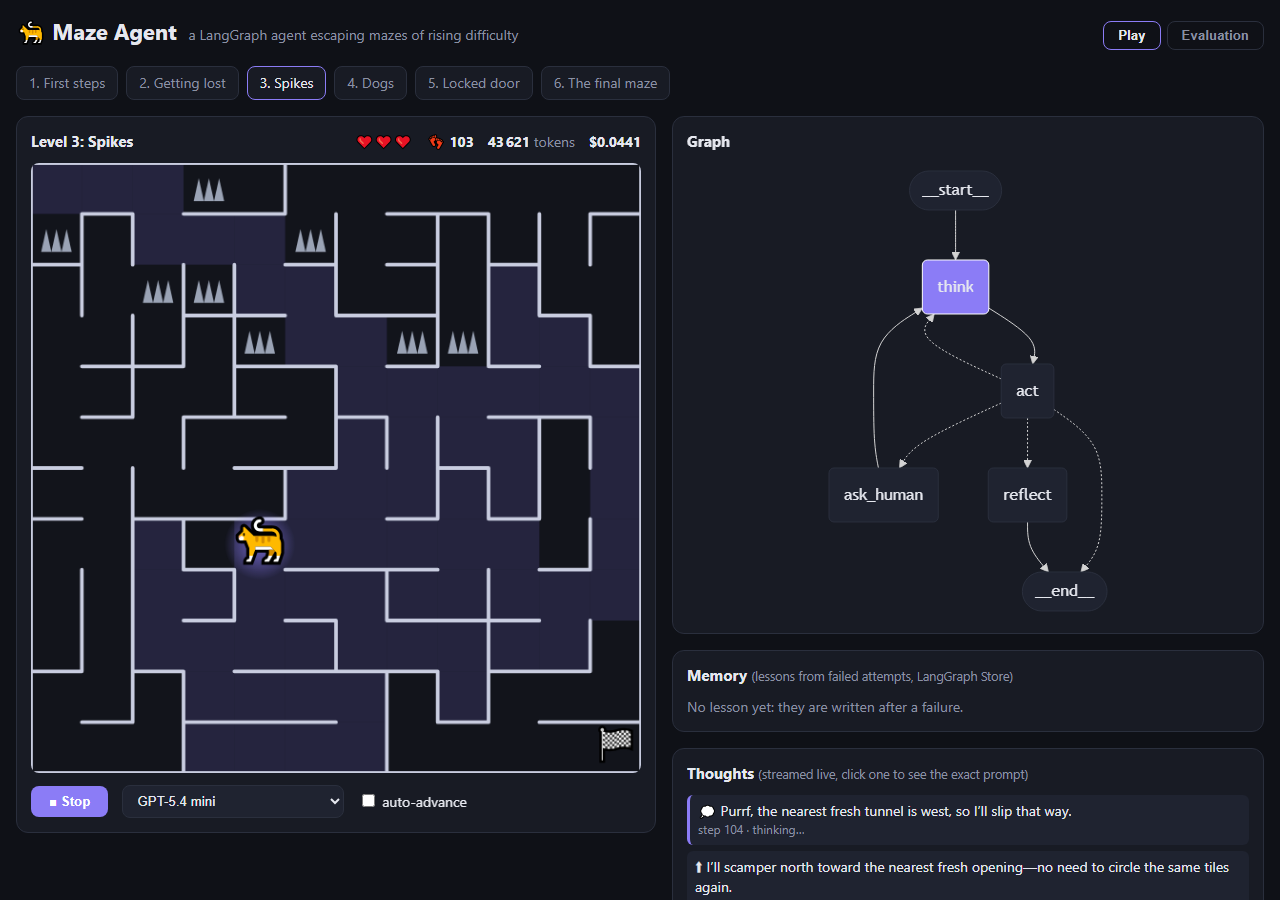
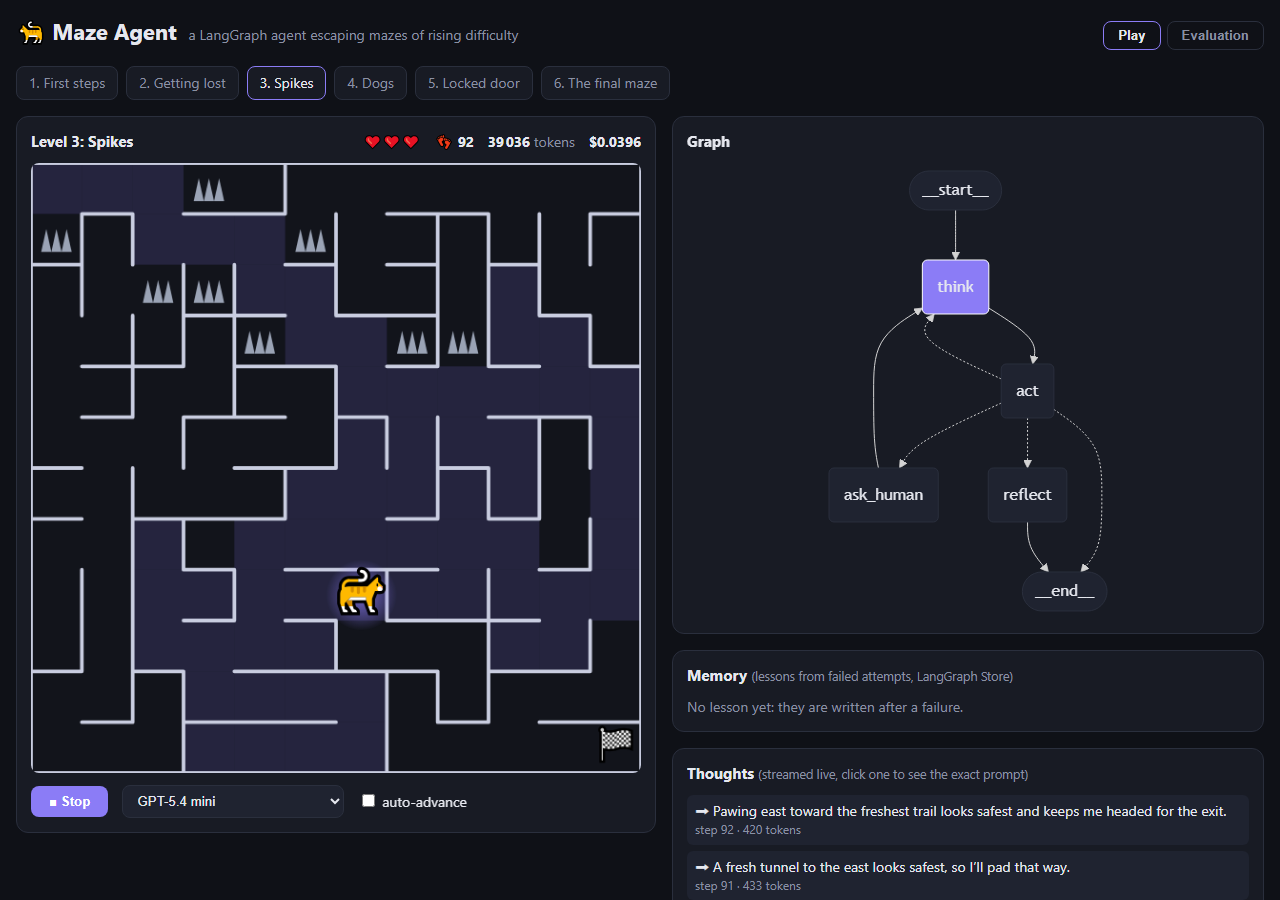
docs: keep the cat orange in the GIF and trim the help image to real UI
MEDIANCUT quantization dropped the cat's few orange pixels (0 of 189 kept); FASTOCTREE keeps them.

diff --git a/README.fr.md b/README.fr.md
@@ -51,7 +51,7 @@ START -> think -> act -> think ...           le chat explore
 | **Annulation** | `server.play_level` | Fermer la page arrête le graphe : aucun token n'est dépensé une fois que plus personne ne regarde. |
 | **Tags et métadonnées** dans la config d'exécution | `runner.play` | Les exécutions sont étiquetées par niveau et modèle, prêtes pour LangSmith (`LANGSMITH_TRACING=true`). |
 
-![Bloqué, le graphe se met en pause dans ask_human et attend votre indice (ici avec le cerveau scripté des tests)](docs/help.png)
+![Bloqué, le graphe se met en pause dans ask_human et attend votre indice](docs/help.png)
 
 Côté LangChain : `init_chat_model` (n'importe quel fournisseur à partir d'un identifiant) et `with_structured_output(method="json_schema")` (sortie structurée native : une `Decision` avec la pensée d'abord, puis la direction).
 

diff --git a/README.md b/README.md
@@ -51,7 +51,7 @@ START -> think -> act -> think ...           the cat explores
 | **Cancellation** | `server.play_level` | Closing the page stops the graph, so no tokens are spent once nobody is watching. |
 | **Tags and metadata** in the run config | `runner.play` | Runs are tagged by level and model, ready for LangSmith (`LANGSMITH_TRACING=true`). |
 
-![When stuck, the graph pauses in ask_human and waits for your hint (shown here with the scripted test brain)](docs/help.png)
+![When stuck, the graph pauses in ask_human and waits for your hint](docs/help.png)
 
 From LangChain: `init_chat_model` (any provider from one id) and `with_structured_output(method="json_schema")` (native structured output: a `Decision` with the thought first, then the direction).
 
